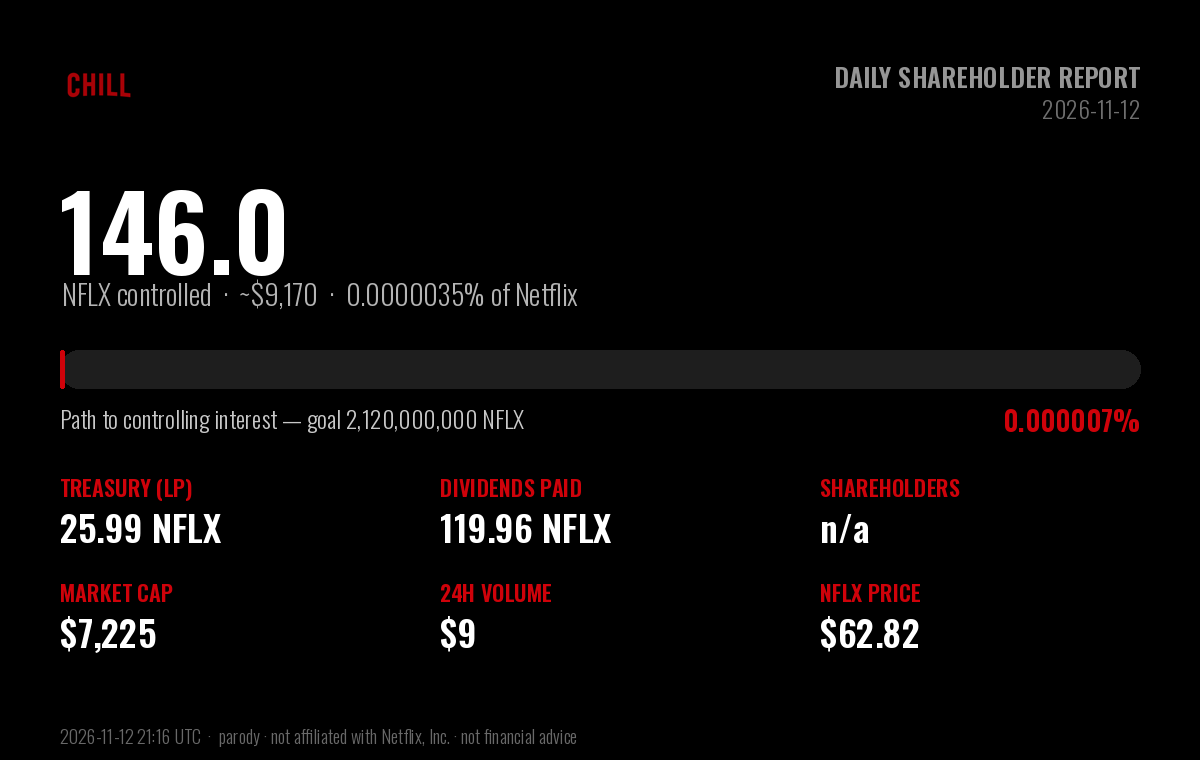
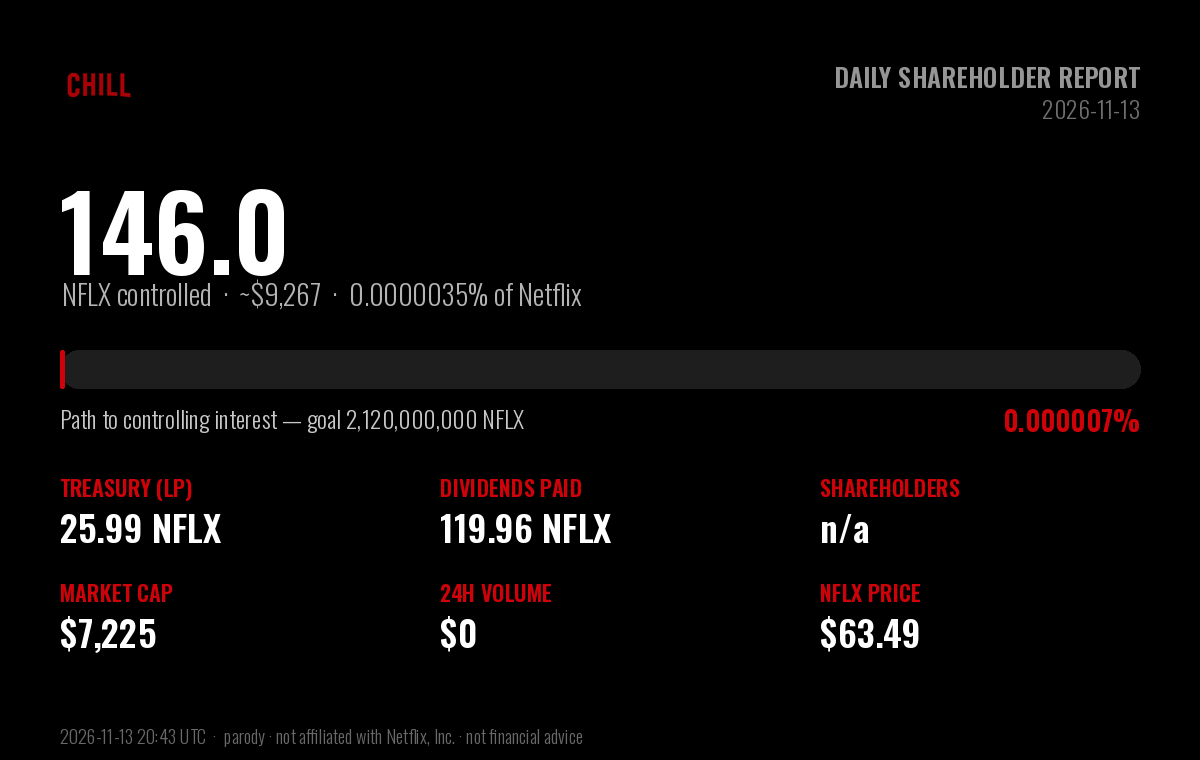
chore: daily $CHILL shareholder report (2026-11-13)

diff --git a/daily-holder-report/README.md b/daily-holder-report/README.md
@@ -1,6 +1,6 @@
 # $CHILL — Daily Shareholder Report
 
-### Netflix and Chill · Report to Shareholders · 2026-11-12
+### Netflix and Chill · Report to Shareholders · 2026-11-13
 
 > **Corporate objective:** acquire a controlling interest in Netflix (NFLX).
 > Netflix has **4,220,000,000** shares outstanding; a majority
@@ -13,7 +13,7 @@
 
 | Metric | Value |
 |---|---|
-| **NFLX under $CHILL control** | **145.96 NFLX** (~$9,170) |
+| **NFLX under $CHILL control** | **145.96 NFLX** (~$9,267) |
 | Stake in Netflix | 0.000003459% of shares outstanding |
 | Progress to controlling interest | 0.0000069% of 2,120,000,000 |
 | Shares remaining to majority | 2,119,999,854 NFLX |
@@ -22,18 +22,18 @@
 
 | Holding | NFLX | USD |
 |---|---|---|
-| Treasury (protocol-owned liquidity) | 25.99 | $1,633 |
-| Dividends distributed to shareholders | 119.96 | $7,537 |
-| **Total NFLX controlled** | **145.96** | **$9,170** |
+| Treasury (protocol-owned liquidity) | 25.99 | $1,650 |
+| Dividends distributed to shareholders | 119.96 | $7,617 |
+| **Total NFLX controlled** | **145.96** | **$9,267** |
 
 ## Last 24 hours
 
 | Metric | Value |
 |---|---|
-| Trading volume | 0.14 NFLX (~$9) |
-| Net NFLX accumulated | 0.14 NFLX |
-| Dividends generated | 0.0014 NFLX |
-| Transactions | 1 (1 buys / 0 sells) |
+| Trading volume | 0.00 NFLX (~$0) |
+| Net NFLX accumulated | 0.00 NFLX |
+| Dividends generated | 0.0000 NFLX |
+| Transactions | 0 (0 buys / 0 sells) |
 | $CHILL price change | +2.0% |
 
 ## Shareholder & market data
@@ -45,10 +45,10 @@
 | Shares outstanding ($CHILL) | 1,000,000,000 |
 | Market capitalization | $7,225 |
 | $CHILL price | $0.00000723 |
-| NFLX price | $62.82 |
-| Lifetime volume | 11,996.45 NFLX (~$753,653) |
+| NFLX price | $63.49 |
+| Lifetime volume | 11,996.45 NFLX (~$761,690) |
 | Lifetime transactions | 8,642 (4,831 buys / 3,811 sells) |
-| Days since IPO (launch) | 116 |
+| Days since IPO (launch) | 117 |
 
 ## Per-share metrics
 
@@ -59,7 +59,7 @@
 
 ---
 
-*Report generated 2026-11-12 21:16 UTC · block 112,835,121 · data via the Sentry-Robinhood
+*Report generated 2026-11-13 20:43 UTC · block 113,640,936 · data via the Sentry-Robinhood
 subgraph and Robinhood Chain explorer.*
 
 **Disclaimer:** $CHILL is an independent, community-driven **parody** token. It is
